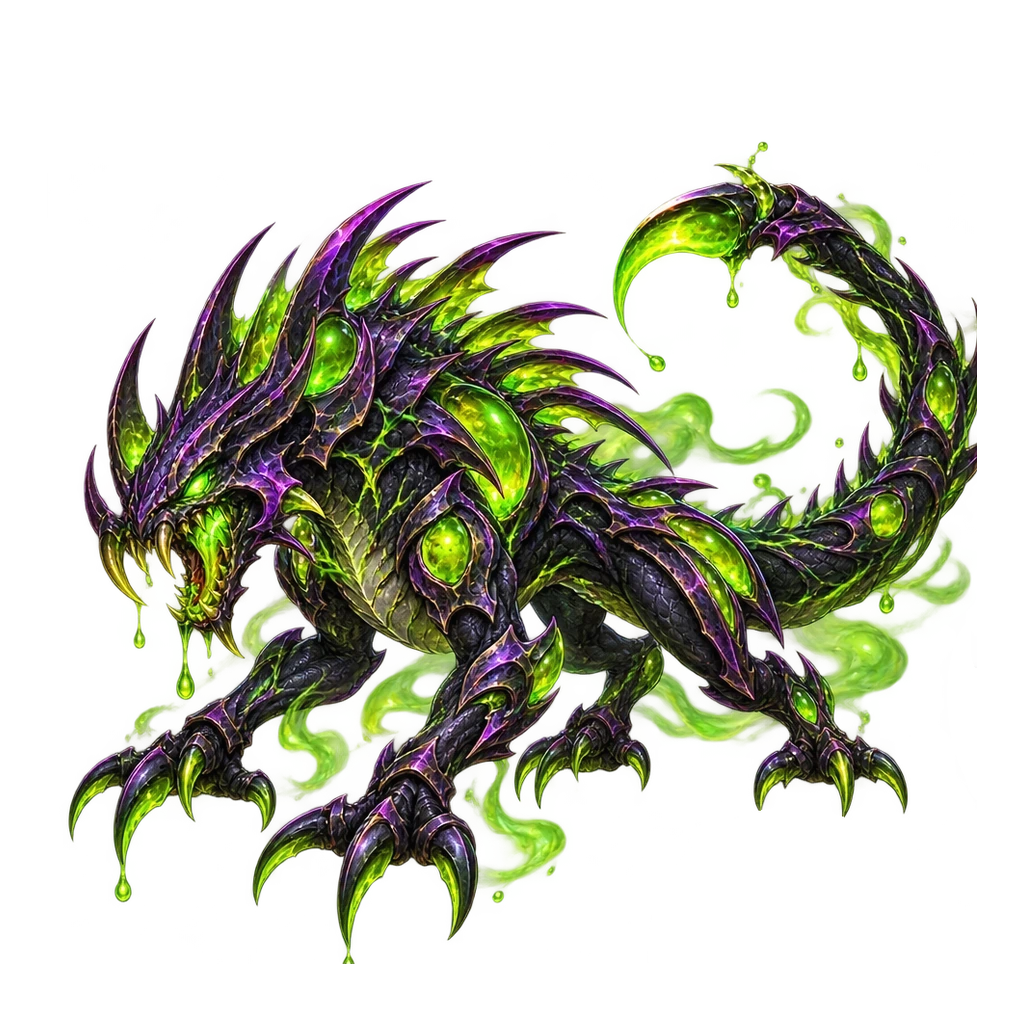
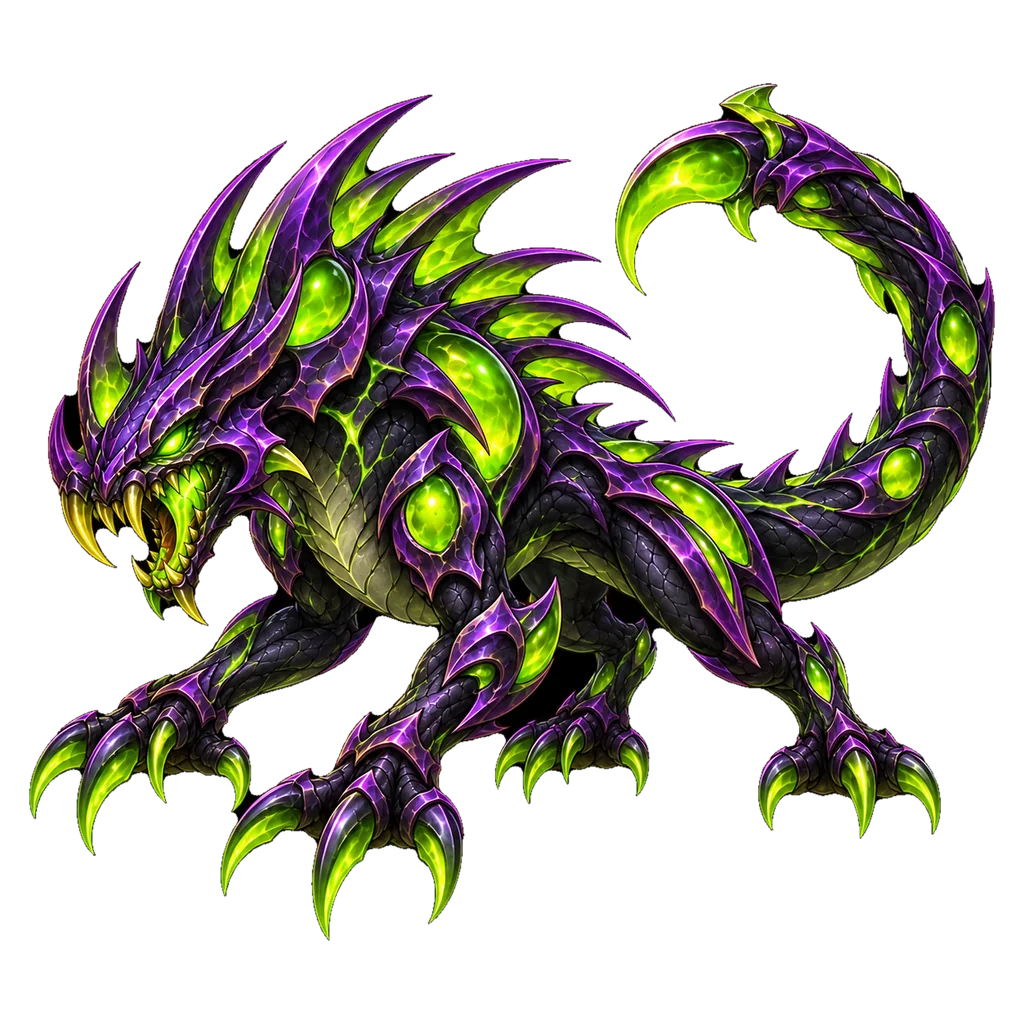
assets(capture): refresh Venombre front and back with approved silhouettes

diff --git a/docs/LAB_VENOMBRE_VISUAL_REFRESH_2026_10_24.md b/docs/LAB_VENOMBRE_VISUAL_REFRESH_2026_10_24.md
@@ -1,0 +1,18 @@
+# Venombre — remplacement des deux modèles (24 octobre 2026)
+
+Deux vues existantes ont été **remplacées à l'identique de leurs identifiants et chemins** dans la bibliothèque `global-assets`, sans créer d'autres propriétaires :
+
+- **Face / adversaire** : `assets/library/capture/creatures/venombre/runtime/venombre_opponent.webp`, `pack:capture:creature-venombre-opponent-01` ; modèle approuvé épuré, sans vapeurs de poison.
+- **Dos / joueur** : `assets/library/capture/creatures/venombre/runtime/venombre_player.webp`, `pack:capture:creature-venombre-player-01` ; modèle approuvé avec queue au-dessus de la jambe, posture et palette conservées.
+
+Prévisualisation des **vrais fichiers WebP publiés** :
+
+![Venombre - face](../assets/library/capture/creatures/venombre/runtime/venombre_opponent.webp) ![Venombre - dos](../assets/library/capture/creatures/venombre/runtime/venombre_player.webp)
+
+Base officielle `global-assets@40efba68f2d24f1b8fb81876516a52143ae87d2e`, checkpoint `checkpoint/global-assets-before-venombre-visual-refresh-2026-10-24`, branche `work/global-assets-venombre-visual-refresh-2026-10-24`.
+
+Deux vraies images WebP transparentes **1024 × 1024** extraites des deux générations originales validées (PNG 1254 × 1254), alpha non trivial, fonds noirs retirés, vides importants de la queue préservés. Chaîne : source ChatGPT -> détourage local -> WebP réels -> Git blobs vérifiés -> fichiers runtime canoniques -> catalogue existant. Empreintes des sources et octets réels : `assets/library/capture/creatures/venombre/venombre_visual_refresh_2026_10_24.provenance.json`.
+
+**Protégés et inchangés** : `venombre_icon.webp`, `venombre.meta.json` (profil/offsets/scales/anchors), trois IDs du catalogue, compétences, gameplay, loadouts, UI, autres créatures, `main`, `gh-pages` et GenSrpG principal. Aucun ajustement automatique des ombres ou des sockets à partir de la nouvelle silhouette.
+
+Gates : test réel WebP alpha, dimensions, SHA256, Git blob, unicité des ID catalogue, invariants meta et icône, CI GitHub, revue de diff et publication sécurisée vers `global-assets`. La validation en jeu mobile est distincte de la disponibilité des médias en bibliothèque.
